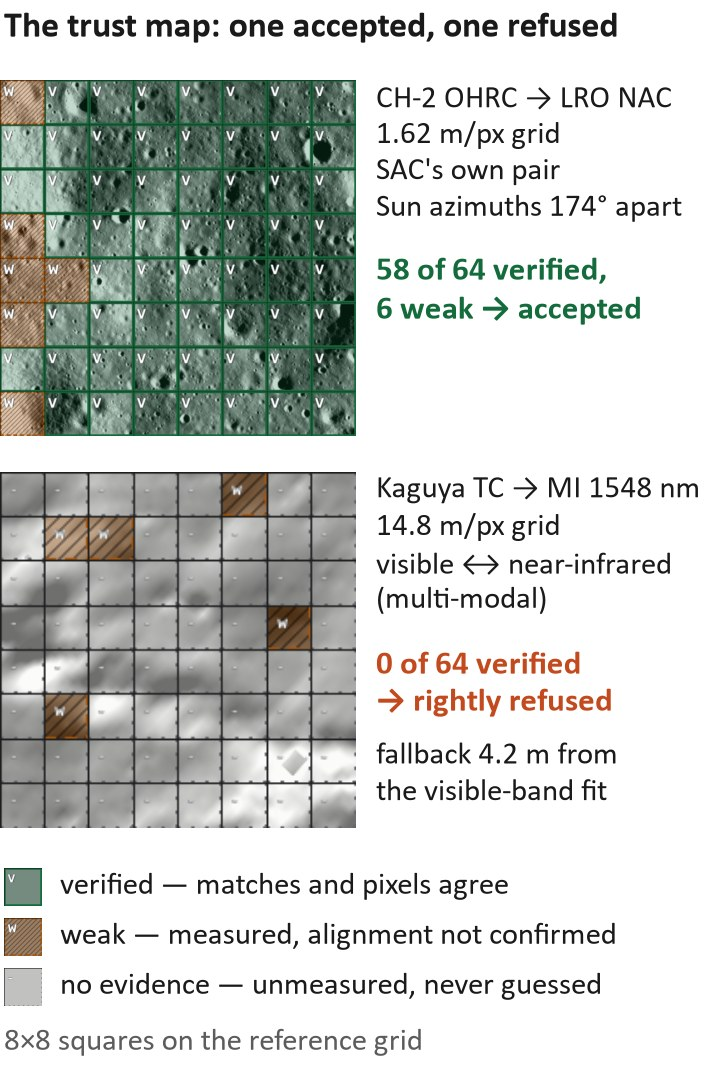
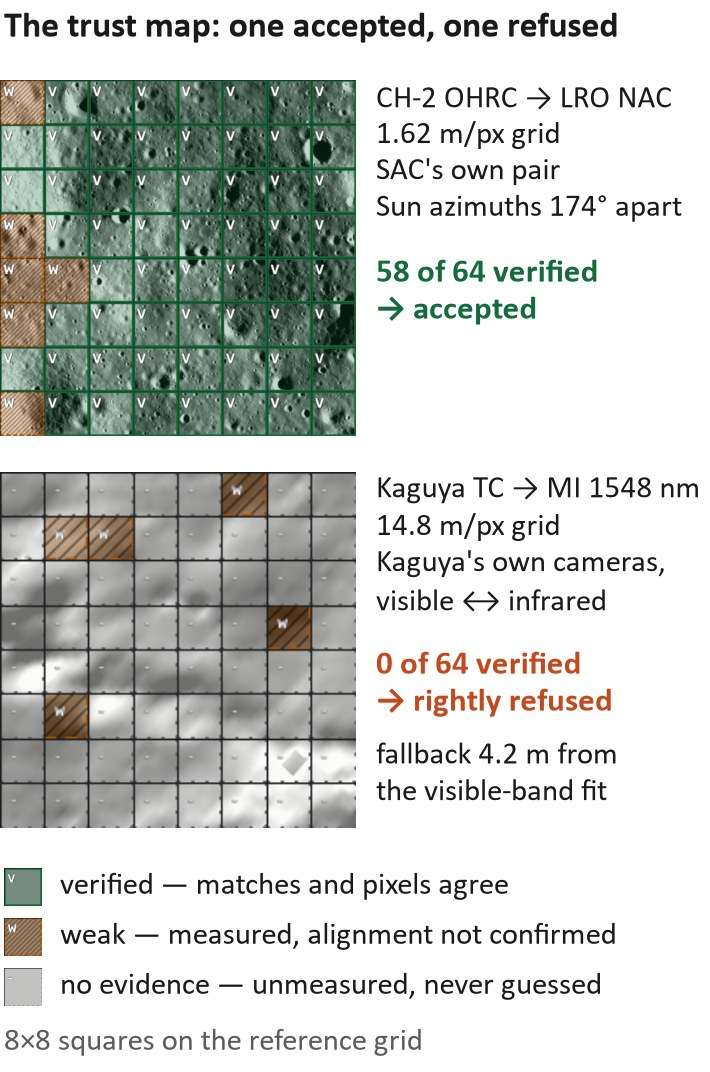
Deck v12 final after the claim-check and two rounds of cold reads; the same corrections in the README and console
Claim-check (every number traced to REPORT at the 04ed5f6 freeze) found wording a judge could challenge:
- "0 false alarms" re-checked windows chosen because the check agreed, so it was a control, not a
  false-alarm rate. Slide 2 now pairs 100% (area check) against 0% (residual check) on the same 1,056
  planted shifts, and quotes right answers refused on windows nobody chose: 2 of 53 in the real Sun
  sweep. fig6 calls 0 m the control.
- The check points' "archive prior" is the corrected placement the windows were cut at, not
  Chandrayaan-2's raw georeference: now "before matching 2.9-15.1 m".
- "Sun up to 41.7 deg higher"; the 29.6x scale rung "3/4 windows (1 strong)"; IIRS shifts in IIRS pixels;
  provenance says REPORT.md is generated at 04ed5f6.

Cold readers: nouns on every ratio; click precision 1.5 m beside the check-point RMSE; the sub-pixel row
split into TMC-2/IIRS in their own pixels (met) and OHRC bounded by its NAC reference (partly met),
replacing a row fig10 already shows; slide 5's region-by-region line in plain words; fig3's refused panel
names Kaguya's own cameras and the accepted one drops "6 weak"; fig10 drops the loop line; fig8 is the
console's result panel alone, legible, with the cached run's counts and seconds hidden (only REPORT's
figures on a slide); "aft" reworded because PowerPoint's print path garbles its ligature in the PDF text
layer, and export_pdf now fails on any garbled character.

Changed region(s): [[0.5268, 0.4925, 0.9606, 0.5849], [0.5268, 0.2463, 0.8986, 0.3078]]

diff --git a/web/console.template.html b/web/console.template.html
@@ -561,16 +561,16 @@ svg.net text{font-family:var(--f)}
     <div class="two">
       <figure>
         <svg class="chart" id="calchart" viewBox="0 0 560 320" role="img" aria-label="Share of planted registration errors flagged, by size of error in metres, for two Sun populations"></svg>
-        <figcaption class="src" data-t="plcap">From evaluation/trust_real_calibration.csv. Bars: 22 windows whose Suns are under 10° apart. Diamonds: SAC's 8 windows, Suns 132° to 174° apart. The two are never pooled. At 0 m nothing is wrong, so any flag is a false alarm.</figcaption>
+        <figcaption class="src" data-t="plcap">From evaluation/trust_real_calibration.csv. Bars: 22 windows whose Suns are under 10° apart. Diamonds: SAC's 8 windows, Suns 132° to 174° apart. The two are never pooled. At 0 m nothing is wrong: a control, on windows chosen because the check agreed with them.</figcaption>
       </figure>
       <div class="col">
         <div class="pair">
-          <p class="big num" data-t="plb1">0 of 44<small>false alarms on correct answers with the Suns within 10°, and 0 of 16 with them 132° to 174° apart</small></p>
+          <p class="big num" data-t="plb1">2 of 53<small>right answers refused in the real Sun sweep, on windows nobody chose (both with the Suns 60° to 120° apart). The planted test's control, the right answer re-checked, is flagged 0 of 44 and 0 of 16 times.</small></p>
           <p class="big num" data-t="plb2">100%<small>of planted 5 m shifts caught with the Suns within 10° (176 trials), and of 10 m shifts with them 132° to 174° apart. At 2 m or less almost nothing is caught: that is the floor.</small></p>
         </div>
         <hr class="rule" style="background:var(--white)">
         <p class="note" data-t="plres">The usual test of a registration is its own residual: how well the matches fit the transform. On the same 1,056 planted wrong answers of 5 m or more, a residual threshold loose enough to accept every true registration flags none of them; the squares flag all 1,056. The matches fit a wrong answer perfectly, so only the pixels can say it is wrong.</p>
-        <p class="note" data-t="plir">Visible against infrared, 16 TMC-2 to IIRS windows on two orbits: no false alarms; 86% of 5-pixel shifts caught and 99% of 10-pixel shifts (IIRS pixels, 74 to 84 m).</p>
+        <p class="note" data-t="plir">Visible against infrared, 16 TMC-2 to IIRS windows on two orbits: the right answer re-checked is never flagged; 86% of 5-pixel shifts caught and 99% of 10-pixel shifts (IIRS pixels, 74 to 84 m).</p>
         <hr class="rule" style="background:var(--white)">
         <p class="note" data-t="plrot">A rotation or scale change about the centre leaves the centre still and moves the corners, so a verdict for the whole frame watches the wrong place: at 3 m of corner movement it refuses 0 of 120 trials, at 5 m only 15. The squares carry it instead.</p>
         <div class="pair" id="rs"></div>
@@ -623,7 +623,7 @@ svg.net text{font-family:var(--f)}
       <li data-t="lg9"><span><em>OHRC onto Kaguya TC ortho map</em><small>cross-sensor</small></span><p>A 29.6× scale gap, 0.25 m against 7.4 m. One window on dense evidence (0.55 px = 4.0 m), two on 1 and 7 verified squares.</p><b class="num">3 of 4</b></li>
       <li data-t="lg10"><span><em>Kaguya TC onto Kaguya MI 749 nm</em><small>cross-sensor</small></span><p>Visible against visible, a 2× scale gap. Held-out median 0.23–0.47 px on MI's 14.8 m grid.</p><b class="num">3 of 3, 3.5–6.9 m</b></li>
       <li data-t="lg11"><span><em>OHRC to NAC A to NAC B, closed loops</em><small>the A to B leg is the same sensor</small></span><p>Three registrations round a loop must return to the start: consistency, not accuracy. Median closure over 6 loops, on the 1.245 m grid of NAC B.</p><b class="num">0.107 m</b></li>
-      <li data-t="lg13"><span><em>Check points clicked by hand</em><small>independent of the matcher</small></span><p>60 points on 6 OHRC to LRO NAC windows, placed with a tool that never sees our answer. Close to how precisely a feature can be clicked (1.47 m); Chandrayaan-2's own georeference misses the same points by 2.9 to 15.1 m.</p><b class="num">1.7–2.4 m RMSE</b></li>
+      <li data-t="lg13"><span><em>Check points clicked by hand</em><small>independent of the matcher</small></span><p>60 points on 6 OHRC to LRO NAC windows, placed with a tool that never sees our answer. Close to how precisely a feature can be clicked (1.47 m); the placement the windows were cut at, before matching, misses the same points by 2.9 to 15.1 m.</p><b class="num">1.7–2.4 m RMSE</b></li>
       <li data-t="lg14"><span><em>TMC-2 onto Kaguya TC, SAC's site</em><small>cross-sensor, two missions</small></span><p>Every 2.84 km window along 88 km of one pass, none chosen. The two archives disagree by a steady 287 m (median), which each registration removes.</p><b class="num">31 of 31</b></li>
       <li data-t="lg15"><span><em>IIRS onto NASA's WAC map, a whole strip</em><small>multi-modal, two missions</small></span><p>1555 nm against the visible base map, 49 windows of 19.2 km from 30° to 61°N, every square voting. 3 unconfirmed, 2 refused.</p><b class="num">44 of 49</b></li>
       <li data-t="lg16"><span><em>SIFT, ORB and AKAZE, the same rule</em><small>the classical baseline</small></span><p>Their matches go through the same fit and the same area check. SAC's pair, Suns 174° apart: 0 of 6 each. The Sun 154–177° away on SAC's frame: 0 of 56 each.</p><b class="num">ours 6 of 6, 48 of 56</b></li>
@@ -721,8 +721,8 @@ const T = {
   ldnote:'समस्या-कथन सूर्य का दिगंश और ऊँचाई दोनों माँगता है। SAC के अपने भूमध्यरेखीय OHRC फ्रेम पर सूर्य क्षितिज से 9.9° ऊपर है; यहाँ हर LRO छवि वही ज़मीन अलग सूर्य के नीचे देखती है। उनके दृष्टि-कोण और दिगंश में भी थोड़ा अंतर है, और REPORT.md हर छवि के लिए दोनों बताता है।',
   pah:'हर जोड़ी, और जाँच ने क्या कहा', pap:'हर परीक्षण की एक विंडो, स्वीकृत और अस्वीकृत, pipeline के सहेजे परिणामों से। कोई प्लेट चुनें। मैजेंटा धारियाँ वह दिखाती हैं जिसे सिस्टम ने अस्वीकार किया।',
   plh:'जाँच की जानबूझकर जाँच', plp:'विफलता पकड़ने वाला तभी उपयोगी है जब उसके झूठे अलार्म और उसका अंधा क्षेत्र मापे गए हों। इसलिए हमने 30 वास्तविक विंडो में ज्ञात आकार के ग़लत उत्तर डाले और उससे पूछा।',
-  plcap:'evaluation/trust_real_calibration.csv से। स्तंभ: 22 विंडो जिनके सूर्य 10° से कम अलग हैं। हीरे: SAC की 8 विंडो, सूर्य 132° से 174° अलग। दोनों को कभी मिलाया नहीं जाता। 0 m पर कुछ ग़लत नहीं, इसलिए कोई भी झंडा झूठा अलार्म है।',
-  plb1:'44 में 0<small>सही उत्तरों पर झूठे अलार्म जब सूर्य 10° के भीतर हों, और 16 में 0 जब वे 132° से 174° अलग हों</small>',
+  plcap:'evaluation/trust_real_calibration.csv से। स्तंभ: 22 विंडो जिनके सूर्य 10° से कम अलग हैं। हीरे: SAC की 8 विंडो, सूर्य 132° से 174° अलग। दोनों को कभी मिलाया नहीं जाता। 0 m पर कुछ ग़लत नहीं: यह नियंत्रण है, उन विंडो पर जिन्हें इसलिए चुना गया कि जाँच उनसे सहमत थी।',
+  plb1:'53 में 2<small>वास्तविक सूर्य-स्वीप में सही उत्तर अस्वीकार, उन विंडो पर जिन्हें किसी ने चुना नहीं (दोनों में सूर्य 60° से 120° अलग)। रोपित परीक्षण का नियंत्रण, सही उत्तर दोबारा जाँचा गया, 44 में 0 और 16 में 0 बार झंडांकित।</small>',
   plb2:'100%<small>डाले गए 5 m खिसकाव पकड़े गए जब सूर्य 10° के भीतर हों (176 परीक्षण), और 10 m वाले जब वे 132° से 174° अलग हों। 2 m या उससे कम पर लगभग कुछ नहीं पकड़ा जाता: वही निचली सीमा है।</small>',
   plrot:'केंद्र के चारों ओर घूर्णन या पैमाने का बदलाव केंद्र को स्थिर रखता है और कोनों को हिलाता है, इसलिए पूरे फ्रेम का एक निर्णय ग़लत जगह देखता है: कोनों के 3 m हिलने पर वह 120 में से 0 परीक्षण अस्वीकार करता है, 5 m पर केवल 15। यह काम वर्ग करते हैं।',
   ovh:'पूरा साझा क्षेत्र, चुनी हुई विंडो नहीं', ovp:'एक OHRC फ्रेम और NAC <span class="it">M1153871873LE</span> की साझा, प्रकाशित, बनावट-युक्त ज़मीन में हर गैर-अतिव्यापी 640-पिक्सेल विंडो, किसी भी मिलान से पहले चुनी गई।',
@@ -810,14 +810,14 @@ const T = {
   knownH:'ज्ञात उत्तर के विरुद्ध', twinH:'क्या अवरक्त फ्रेम केवल धुंधला है? एक ही स्रोत, एक ही मानचित्र-उत्पाद के दो बैंडों के सामने।',
   nav8:'संदर्भ खोजें',
   plres:'किसी पंजीकरण की सामान्य जाँच उसका अपना अवशेष (residual) है: मिलान रूपांतरण पर कितने ठीक बैठते हैं। उन्हीं 1,056 डाले गए ग़लत उत्तरों पर (5 m या अधिक), इतनी ढीली अवशेष-सीमा जो हर सही पंजीकरण स्वीकार करे, उनमें से एक को भी नहीं पकड़ती; वर्ग सभी 1,056 पकड़ते हैं। मिलान ग़लत उत्तर पर पूरी तरह बैठते हैं, इसलिए केवल पिक्सेल ही बता सकते हैं कि वह ग़लत है।',
-  plir:'दृश्य बनाम अवरक्त, दो कक्षाओं की 16 TMC-2 से IIRS विंडो: कोई झूठा अलार्म नहीं; 5-पिक्सेल खिसकाव का 86% और 10-पिक्सेल का 99% पकड़ा गया (IIRS पिक्सेल, 74 से 84 m)।',
+  plir:'दृश्य बनाम अवरक्त, दो कक्षाओं की 16 TMC-2 से IIRS विंडो: सही उत्तर दोबारा जाँचने पर कभी झंडा नहीं; 5-पिक्सेल खिसकाव का 86% और 10-पिक्सेल का 99% पकड़ा गया (IIRS पिक्सेल, 74 से 84 m)।',
   fdh:'सूर्य देखकर संदर्भ खोजें',
   fdp:'बहुत अलग सूर्यों के पार पंजीकरण कठिन है, इसलिए संदर्भ उसके सूर्य से चुना जाता है। ISRO के PRADAN कैटलॉग के हर OHRC अवलोकन के लिए, उसे ढकने वाली छवियाँ, सबसे अच्छा सूर्य पहले: दोनों सूर्य-दिशाओं के बीच का कोण, हर छवि के समय से गणना (Meeus; LROC के अपने प्रकाशित उप-सौर बिंदुओं से 0.04° के भीतर)।',
   fdq:'फ्रेम खोजें: तिथि, उत्पाद id, या अक्षांश, देशांतर',
   fdcap:'evaluation/reference_index.json (ops/reference_index.py) से। उम्मीदवार: PRADAN के फ़ुटप्रिंट कैटलॉग का हर OHRC, TMC-2 नादिर और IIRS उत्पाद, और इस परियोजना को ज्ञात LRO NAC छवियाँ, जो फ्रेम का कम से कम 20% ढकें। उसी पास पर साथ ली गई छवियों का सूर्य वही होता है।',
   fdSay:'{n} में से {m} OHRC अवलोकन मिले', fdAll:'{n} OHRC अवलोकन; {k} के पास 5° के भीतर दूसरी कक्षा की छवि है', fdNone:'कोई मेल नहीं',
   fdHead:'{d} का OHRC फ्रेम, {la}°, {lo}° पर; सूर्य का आपतन {i}°', fdImg:'छवि', fdInst:'उपकरण', fdCov:'ढकती है', fdSun:'सूर्यों में अंतर', fdAz:'दिगंश अंतर', fdDate:'तिथि', fdSame:'उसी पास पर', fdNo:'कोई छवि इस फ्रेम का 20% नहीं ढकती।',
-  lg13:'<span><em>हाथ से क्लिक किए जाँच-बिंदु</em><small>matcher से स्वतंत्र</small></span><p>6 OHRC से LRO NAC विंडो पर 60 बिंदु, ऐसे उपकरण से रखे गए जो हमारा उत्तर कभी नहीं देखता। किसी चिह्न को जितनी सटीकता से क्लिक किया जा सकता है (1.47 m), उसके क़रीब; चंद्रयान-2 का अपना भू-संदर्भ इन्हीं बिंदुओं से 2.9 से 15.1 m दूर।</p><b class="num">1.7–2.4 m RMSE</b>',
+  lg13:'<span><em>हाथ से क्लिक किए जाँच-बिंदु</em><small>matcher से स्वतंत्र</small></span><p>6 OHRC से LRO NAC विंडो पर 60 बिंदु, ऐसे उपकरण से रखे गए जो हमारा उत्तर कभी नहीं देखता। किसी चिह्न को जितनी सटीकता से क्लिक किया जा सकता है (1.47 m), उसके क़रीब; मिलान से पहले की स्थिति, जिस पर विंडो काटी गईं, इन्हीं बिंदुओं से 2.9 से 15.1 m दूर।</p><b class="num">1.7–2.4 m RMSE</b>',
   lg14:'<span><em>TMC-2 से Kaguya TC, SAC का स्थल</em><small>cross-sensor, दो मिशन</small></span><p>एक पास के 88 km में हर 2.84 km की विंडो, कोई चुनी नहीं गई। दोनों अभिलेखागार एक स्थिर 287 m (माध्यिका) से असहमत हैं, जिसे हर पंजीकरण हटाता है।</p><b class="num">31 में 31</b>',
   lg15:'<span><em>IIRS से NASA का WAC मानचित्र, पूरी पट्टी</em><small>multi-modal, दो मिशन</small></span><p>दृश्य आधार-मानचित्र के सामने 1555 nm, 30° से 61°N तक 19.2 km की 49 विंडो, हर वर्ग मतदान करता है। 3 अपुष्ट, 2 अस्वीकृत।</p><b class="num">49 में 44</b>',
   lg16:'<span><em>SIFT, ORB और AKAZE, वही नियम</em><small>पारंपरिक आधार-रेखा</small></span><p>उनके मिलान उसी फ़िट और उसी क्षेत्र-जाँच से गुज़रते हैं। SAC की जोड़ी, सूर्य 174° अलग: हर एक 6 में 0। SAC के फ्रेम पर सूर्य 154–177° दूर: हर एक 56 में 0।</p><b class="num">हमारा 6 में 6, 56 में 48</b>',

diff --git a/presentation/build_deck.py b/presentation/build_deck.py
@@ -482,15 +482,18 @@ HOW_ROWS = [
     # strongest measured line. SUN merges azimuth and elevation (both readers: elevation was missing).
     # REPORT "SAC's own benchmark pair (equatorial ...)" 6 agrees; "Classical matchers on the same
     # windows" first row, SIFT/ORB/AKAZE 0/6; "Sun azimuth and elevation, on SAC's own frame" 61/71.
-    ("SUN", GREEN, "6/6 at 174°", f" on SAC's pair [1], classical 0/6; Sun 41.7° higher: 61/71"),
+    # Final read (4 Oct): both readers asked "61 of 71 what?" - the noun is now there.
+    ("SUN", GREEN, "6/6 at 174°", f" on SAC's pair [1], classical 0/6; Sun up to 41.7° higher: 61/71 windows"),
     # "Independent check points": ours 1.69-2.39 m RMSE over 6 OHRC -> NAC windows x 10 points. AMBER:
-    # 1.5-2.6 px on the NAC grid is not sub-pixel (claim-check v12 #5; slide 4 says so).
-    ("ACCURACY", AMBER, "1.7–2.4 m", f" RMSE, OHRC{_TO}NAC, on 60 hand-clicked check points"),
+    # 1.5-2.6 px on the NAC grid is not sub-pixel (claim-check v12 #5; slide 4 says so). "click
+    # precision": the same section, "one click's precision is a median 1.47 m on the reference" - the
+    # SAC reader's first Q&A question was how much of the RMSE is the clicking (4 Oct).
+    ("ACCURACY", AMBER, "1.7–2.4 m", " RMSE, 60 hand-clicked check points; click precision 1.5 m"),
     # "TMC-2 -> SELENE TC ortho map at SAC's site, every window": accepted 31/31.
-    ("CROSS-MISSION", GREEN, "31/31", f" TMC-2{_TO}Kaguya TC at SAC's site, every window"),
+    ("CROSS-MISSION", GREEN, "31/31", f" TMC-2{_TO}Kaguya TC, every window"),
     # "TMC-2 -> IIRS" both orbits beyond 850 nm 62/62; "IIRS -> LRO WAC, the whole strip, region by
     # region": accepted 44/49.
-    ("MULTI-MODAL", GREEN, "62/62", f" TMC-2{_TO}IIRS infrared; whole IIRS strip onto NASA's map: 44/49"),
+    ("MULTI-MODAL", GREEN, "62/62", f" TMC-2{_TO}IIRS infrared; IIRS strip onto NASA's map: 44/49"),
 ]
 
 
@@ -531,7 +534,7 @@ def slide2(s):
     # How it addresses the problem: the three PS axes, one measured line each.
     cy = 4.50
     _tab(s, L, cy, H[2])
-    cw1 = 4.30
+    cw1 = 4.55          # 4 Oct: "61/71 windows" needs the width; the innovation card had room to spare
     _box(s, L, cy + 0.38, cw1, 6.85 - cy - 0.38, fill=FILL_GREY, line=LINE_GREY, name="card-how")
     rows = HOW_ROWS
     for k, (label, colour, bold, rest) in enumerate(rows):
@@ -557,8 +560,13 @@ def slide2(s):
           [P(R("A failure detector, calibrated on real data.", 13, True, INK))], name="inn-lead")
     # v12 final: the false-alarm count now spans both populations - "Trust layer ...": 0% at d = 0 in the
     # 30 visible windows and in the 16 "Visible against infrared" windows (46 = 30 + 16).
-    for k, (num, lab) in enumerate((("0", f"false alarms on correct answers, 46{NBSP}real{NBSP}windows"),
-                                    ("100%", "of 1,056 planted shifts ≥ 5 m caught, Suns within 10°"))):
+    # Final claim-check (4 Oct): the d = 0 trials re-check windows CHOSEN because the check agreed, so
+    # "0 false alarms" was close to true by construction. The card now pairs the two checks on the
+    # same 1,056 ("Planted errors of 5 m or more: the residual threshold flags 0 of 1056; the area
+    # check flags 1056 of 1056"), and the body quotes right answers refused on windows nobody chose
+    # for agreeing: "Real sun-angle sweep", correct but refused 1 + 1 of 51 accepted + 2 (all bins).
+    for k, (num, lab) in enumerate((("100%", "of 1,056 planted shifts ≥ 5 m caught, Suns within 10°"),
+                                    ("0%", "by the usual residual check, same shifts"))):
         ry = cy + 0.80 + k * 0.42
         _text(s, ix + 0.14, ry, 0.86, 0.40, [P(R(num, 24, True, ACCENT))], anchor="m", name="inn-num")
         _text(s, ix + 1.02, ry, RIGHT - ix - 1.16, 0.40, [P(R(lab, 12, False, MUTED))], anchor="m",
@@ -571,8 +579,8 @@ def slide2(s):
     # they are. "Visible against infrared": flagged at 5 px and 10 px (IIRS pixels). The opposite-Sun
     # head-to-head moved to the SUN row ("classical 0/6") and slide 4.
     _text(s, ix + 0.14, cy + 1.68, RIGHT - ix - 0.28, 0.62,
-          [P(R("The usual residual check flags none of them. ", 12, True, INK),
-             R("Visible against infrared: 86% caught at 5 px, 99% at 10 px.", 12, False, INK))],
+          [P(R("Right answers refused: 2 of 53, real Sun sweep. ", 12, True, INK),
+             R("Visible vs infrared: 86% of 5-pixel shifts caught, 99% of 10 (IIRS pixels).", 12, False, INK))],
           name="inn-body")
 
     # The trust map itself: SAC's OHRC -> NAC w06 (accepted) above Kaguya TC -> MI 1548 nm w01
@@ -671,8 +679,13 @@ def slide3(s):
          name="hardware")
 
     # The working prototype (pointer: "Flow Charts/Images/ working prototype"): the published
-    # console on a laptop, and the same page on a phone in Hindi (fig8, composed 2 Oct from two
-    # screenshots of web/dist/site). The caption is the address, so a judge can open it.
+    # console's result for SAC's pair (fig8). 4 Oct: both final cold readers could not read the whole
+    # laptop page with a phone inset at this size, so fig8 is now the result panel alone, cropped
+    # (552, 92, 1960, 972) from a 1600 x 1000 capture at 1.25x of web/dist/site after clicking the
+    # first saved result. The facts list and the per-square panel were hidden before the capture:
+    # they carry the cached run's counts and seconds (4,182 inliers, 8.4 s), which differ from the
+    # logged row (4,179, 8.6 s), and only REPORT's figures go on a slide (REPORT prints 58 / 0 and
+    # "all 6"). The "Try it" line names the phone and Hindi. The caption is the address.
     pic = _pic(s, "fig8_console.jpg", 0, ty, h=2.40, border=LINE_GREY)
     if pic is not None:
         pic.left = Inches(RIGHT) - pic.width
@@ -699,34 +712,33 @@ SCORECARD = [
     # "SAC's own benchmark pair (equatorial ...)" 6 agrees; "Sun azimuth and elevation ..." opposite table.
     # v12: and "Classical matchers ...": SIFT, ORB, AKAZE 0/6 each on the same windows.
     # v12 final: azimuth and elevation in one row (the freed row carries cross-mission).
-    ("Sun angle", f"SAC's pair [1], Suns 174° apart: 6/6 (SIFT,{NBSP}ORB,{NBSP}AKAZE 0/6); Sun 41.7° higher: 61/71",
+    ("Sun angle", f"SAC's pair [1], Suns 174° apart: 6/6 (SIFT/ORB/AKAZE 0/6); Sun up to 41.7° higher: 61/71",
      GREEN),
     # "Sun azimuth and elevation, on SAC's own frame": the near-azimuth table, its totals line.
     # "A real viewpoint test at Site N": agrees / windows, angle apart, held-out median, and its grid
     # (v11c: a cold reader took the 1.12 m for SAC's 1.12 m NAC grid of paper [1], 2 Oct).
-    ("Viewpoint", f"OHRC → OHRC, next orbit, 40° apart: 8/8, held-out median 1.12 m", GREEN),
+    ("Viewpoint", f"OHRC → OHRC, 40° apart: 8/8, held-out median 1.12 m", GREEN),
     # "Scale rung" 3 agrees of 4; "TMC-2 -> IIRS" scale column 16.2x, every window on both orbits.
-    # v11c names the 29.6× rung's source ("from which sensor?", cold read, 2 Oct).
+    # v11c names the 29.6× rung's source ("from which sensor?", cold read, 2 Oct). 4 Oct (claim-check):
+    # of the 3, only w01 is on dense evidence (0.55 px); w02 and w03 rest on 1 and 7 verified cells.
     ("Scale", f"16×{NBSP}TMC-2{_TO}IIRS: 62/62; 4.2×{NBSP}OHRC{_TO}TMC-2: 10/10; "
-              f"29.6×{NBSP}OHRC{_TO}Kaguya{NBSP}TC: 3/4", GREEN),
+              f"29.6×{NBSP}OHRC{_TO}Kaguya{NBSP}TC: 3/4 windows (1 strong)", GREEN),
     # "TMC-2 -> IIRS", both orbits: bands beyond 850 nm, windows accepted. (v11c: "16 places" cut to pay
     # for the words added on this slide.)
     # v12: "IIRS -> LRO WAC global mosaic": accepted 12/16 (cross-mission; its own section, not in the
     # 406 windows).
     # v12 final: "IIRS -> LRO WAC, the whole strip, region by region": 44/49, every 8x8 square voting -
     # replaces the 16 small windows' 12/16 on a whole-frame check (claim-check #7 and the cold readers).
-    ("Multi-modal", f"TMC-2{_TO}IIRS infrared: 62/62; whole IIRS strip onto NASA's WAC map: 44/49",
+    ("Multi-modal", f"TMC-2{_TO}IIRS infrared: 62/62; IIRS strip onto NASA's WAC map: 44/49",
      GREEN),
     # "TMC-2 -> SELENE TC ortho map at SAC's site, every window": 31/31 over 31 x 2.84 km.
-    ("Cross-mission", f"TMC-2{_TO}Kaguya TC at SAC's site, every window over 88 km: 31/31", GREEN),
+    ("Cross-mission", f"TMC-2{_TO}Kaguya TC, every window over 88 km: 31/31", GREEN),
     # "One site, every camera ... (Site N)": OHRC -> TMC-2 from the legs table; then "TMC-2 -> IIRS" on
     # that TMC-2's own orbit (20200607), its four infrared bands' "windows accepted" summed: 8 + 8 + 8 +
     # 6 = 30/30. v11 ended this row "chain via NAC meets direct within 2.0 m": false - the loop's median
     # is 1.99 m, its max 4.04 m, and 2 of its 4 windows are above 2.0 m (audit, 2 Oct). v11c drops the
     # two NAC legs (5/5, 4/4): fig10 beside the row draws both, and the row names the three cameras.
     # Arrows are no-break, so no instrument is cut from its arrow.
-    ("OHRC, TMC, IIRS", f"One site, Suns matched: OHRC{_TO}TMC-2 10/10, IIRS{_TO}TMC-2 30/30",
-     GREEN),
     # "Sub-pixel accuracy ... / In the Chandrayaan-2 image's own pixels" (the PS asks for the accuracy
     # "of source image"): NAC <-> TMC-2 at SAC's site, TMC-2 <-> IIRS 1555 nm on orbit 20200607, and
     # OHRC -> NAC at 74 S in OHRC pixels - OHRC is finer than any reference, so it is not sub-pixel in
@@ -735,16 +747,32 @@ SCORECARD = [
     # paper's SuperGlue number is in-sample, ours are held-out, and the two are not the same measure.
     # v11c names each number's partner: both cold readers found TMC-2's accuracy given three ways on
     # this slide (here, and fig10's two Site N legs on another TMC-2 frame), 2 Oct.
-    ("Sub-pixel, own pixels", f"Held-out medians: TMC-2 vs NAC 0.36–0.48 px{_EQ}1.6–2.2 m; IIRS 1555 nm vs TMC-2 "
-                  f"0.16–0.32 px{_EQ}13.9–27.3 m; OHRC, finer than NAC, 2.0–3.7 px{_EQ}0.51–0.94 m", AMBER),
+    # Final read (4 Oct): both readers stopped at the bare "OHRC ... 2.0-3.7 px" beside an amber dot and
+    # read it as the brief failed; the row now says why (REPORT: "the finer: bounded by the reference
+    # grid"). Same numbers.
+    # Second final read (4 Oct): both readers stopped at the one row that mixed three sensors and two
+    # units, and one asked why 4.5 m TMC-2 pixels sat beside fig10's 5.173 m grid (two TMC-2 frames). So
+    # the row is split: what is met (TMC-2 and IIRS, in their own pixels, GREEN) and what cannot be
+    # (OHRC's 0.25 m pixel against a ~0.93 m NAC: "the finer: bounded by the reference grid", AMBER,
+    # with its reference-grid medians from the 74 S rows of the same section, 0.41-1.01 px = 0.51-0.94 m).
+    # The "OHRC, TMC, IIRS" row it replaces repeated fig10, which stands beside it (the reader also
+    # could not reconcile its 30/30 with 62/62 and 58/58).
+    ("Sub-pixel: TMC-2, IIRS", "Held-out medians in their own pixels: TMC-2 0.36–0.48 px (1.6–2.2 m); "
+                               "IIRS 1555 nm 0.16–0.32 px (13.9–27.3 m)", GREEN),
+    ("Sub-pixel: OHRC", "OHRC's 0.25 m pixel is finer than its NAC reference can check: 0.51–0.94 m, "
+                        "0.41–1.01 NAC px", AMBER),
     # "Runtime and match distribution": grid coverage, and the delivered uniform set.
-    ("Uniform spread", "Inliers in ≥95% of 8×8 cells, 17/20 windows; reports: RMSE, inlier count, inlier "
-                       "ratio", GREEN),
+    ("Uniform spread", "Inliers in ≥95% of 8×8 cells, 17/20 windows; reports RMSE, inlier "
+                       "count, ratio", GREEN),
     # v12: "Independent check points": 6 windows x 10 points, ours 1.69-2.39 m RMSE, the archive prior
     # 2.9-15.1 m. Replaces v11's "Deliverables" row (slide 3's outcome box names the GeoTIFF, control
     # points and trust map); the cold readers' "RMSE appears nowhere" is answered by a measured RMSE.
-    ("Check points", f"60 hand-clicked, OHRC{_TO}NAC: 1.7–2.4 m RMSE (1.5–2.6 NAC px); Chandrayaan-2's "
-                     "georeference 2.9–15.1 m", AMBER),
+    # 4 Oct: "one click 1.5 m" - the section's click precision (median 1.47 m on the reference). The
+    # "archive prior RMSE" column is NOT Chandrayaan-2's raw georeference: the cut already applies the
+    # NAC's 4 m correction (REPORT, Site N: "first moved (-29, -61) m into LRO's geometry"), so the
+    # row now calls it the placement before matching (claim-check, 4 Oct).
+    ("Check points", f"60 hand-clicked, OHRC{_TO}NAC: 1.7–2.4 m RMSE (1.5–2.6 NAC px), click precision 1.5 m; "
+                     "before matching 2.9–15.1 m", AMBER),
 ]
 RISKS = [
     # "Real sun-angle sweep" bins 60-90 and 90-120: 0 accepted of 7 + 5, none wrongly accepted; 1 failed
@@ -755,10 +783,12 @@ RISKS = [
      # uses rank 4, 7, 9.
      # v12 final: "Choosing the reference by its Sun", the whole-archive line: 208 of 300 OHRC
      # observations have a partner from another orbit within 5 deg ("Site N" was undefined, 3 Oct).
-     ("Choose the reference by its Sun", "Built: 208 of 300 OHRC frames have a partner within 5°")),
+     ("Choose the reference by its Sun", "Built: 208 of 300 OHRC frames: a partner within 5°")),
     # "Relief: TMC-2 fore -> aft orthorectified on the pass's DTM": 1/4 without, 2/4 with.
-    (("Relief parallax", "TMC-2 fore → aft, 50° apart: 1/4"),
-     ("DTM orthorectification", "Built: 2/4 on ISRO's DTM")),
+    # 4 Oct: "aft" printed through PowerPoint comes out as "a" + U+014C in the PDF's text layer (the
+    # "ft" ligature), which a screener's text extraction reads as garbage; the row avoids the word.
+    (("Relief parallax", "TMC-2 views 50° apart: 1/4 windows"),
+     ("DTM orthorectification", "Built: 2/4 windows on ISRO's DTM")),
 ]
 
 
@@ -877,9 +907,10 @@ def slide5(s):
     # REPORT, "The planted matches agree with the wrong transform perfectly in every trial".
     _text(s, L + 1.42, py + 0.10, 5.52, 1.32,
           [P(R("Why region by region", 13, True, ACCENT)),
+           # 4 Oct: both readers could not tell whether "left ... unverified" was good or bad.
            P(R("Rotation and scale errors move the corners, not the centre, and the matches fit the "
-               "wrong answer perfectly. With corners 3 m out, a whole-frame check refused none of 120 "
-               "trials; the 8×8 map left 62–63% of the squares moved over 2 px unverified.",
+               "wrong answer perfectly. With corners 3 m out, a whole-frame check caught none of 120 "
+               "trials; the 8×8 map flagged 62–63% of the squares that moved over 2 px.",
                12, False, INK), sb=2)],
           name="per-region-text")
 
@@ -948,8 +979,8 @@ REFS = [
 # (s2, s4) only as the rows they add up from - per band, per window - so "every figure comes from
 # REPORT.md" was not literally true (audit, 2 Oct). "Result": a grid size or a place is not one.
 # v12: the 3 Oct freeze re-ran every row at e38a69a; its report step wrote REPORT.md with that code.
-PROVENANCE = ("Every result is in REPORT.md, or a count or sum of its rows, measured at the freeze "
-              "commit 04ed5f6.")
+PROVENANCE = ("Every result is in REPORT.md, or a count or sum of its rows; REPORT.md is generated at "
+              "the freeze commit 04ed5f6.")
 
 
 def slide6(s):

diff --git a/presentation/make_figures.py b/presentation/make_figures.py
@@ -462,7 +462,9 @@ def _panel_lines(pair: str) -> list[str]:
     if g.get("benchmark"):
         lines += ["SAC's own pair", f"Sun azimuths {g['d_sun_azimuth_deg']:.0f}° apart"]
     elif "infrared" in (r.get("band") or ""):
-        lines += ["visible ↔ near-infrared", "(multi-modal)"]
+        # 4 Oct: a third cold reader took "(multi-modal) ... refused" beside slide 2's MULTI-MODAL 62/62
+        # to mean multi-modal fails; the panel now names the cameras, Kaguya's own, not Chandrayaan-2's.
+        lines += ["Kaguya's own cameras,", "visible ↔ infrared"]
     else:
         lines += [g.get("terminology", "")]
     return lines
@@ -554,7 +556,8 @@ def fig_trust_map():
                f"fallback {_fallback_vs_visible_m(pair)} m from\nthe visible-band fit",
                fontsize=11, color=INK)
         else:
-            at(tx, vy, f"{counts['verified']} of {n_cells} verified,\n{counts['weak']} weak → accepted",
+            # 4 Oct: "6 weak -> accepted" read as "unconfirmed squares accepted" (generalist reader).
+            at(tx, vy, f"{counts['verified']} of {n_cells} verified\n→ accepted",
                fontsize=12, fontweight="bold", color="#146b3c")
 
     # Legend: the same three marks the app draws, on a flat grey swatch, produced by the same
@@ -875,8 +878,10 @@ def fig_trust_real():
             + ", OHRC→NAC and NAC→NAC")
     # "every planted match agrees with the wrong answer" was a phrase a cold reader could not
     # decode (2 Oct); slide 5 now says it the same way as this line.
-    fig.text(0.008, 0.008, f"{wins}\n0 m = false-alarm rate · the planted matches fit the "
-             f"wrong answer", fontsize=11, color=MUTED, linespacing=1.25, va="bottom")
+    # 4 Oct (claim-check): the 0 m trials re-check windows chosen because the check agreed, so they are
+    # a control, not a false-alarm rate on unseen windows; the deck quotes the real Sun sweep for that.
+    fig.text(0.008, 0.008, f"{wins}\n0 m = control (right answer) · the planted matches fit the wrong "
+             f"answer", fontsize=11, color=MUTED, linespacing=1.25, va="bottom")
     fig.tight_layout(rect=(0, 0.115, 1, 1))
     out = OUT / "fig6_trust_real_calibration.png"
     _audit(fig, out.name)
@@ -1164,10 +1169,9 @@ def fig_site_n():
     arrow(left + bw + gap, bot - bh / 2, right - gap, bot - bh / 2)
     text(W / 2, bot - bh - 0.16, f"{ti_acc}/{len(ti)} accepted · {len(bands)} infrared bands (multi-modal)")
     text(W / 2, bot - bh - 0.34, f"IIRS windows along this TMC-2 pass, {min(lats):.1f}–{max(lats):.1f}°N")
-    # The loop: median AND max, and what it is.
-    text(0.04, 0.31, f"Loop via NAC vs direct, {len(loops)} windows: median {np.median(rms):.2f} m, "
-                     f"max {max(rms):.2f} m (consistency, not accuracy)", colour=DECK_ACCENT, ha="left")
-    text(0.04, 0.12, "Ranges: per-window held-out medians (matches the fit never saw), inlier ratio > 0.5",
+    # 4 Oct: the loop line ("Loop via NAC vs direct ... consistency, not accuracy") dropped - both final
+    # cold readers stopped reading there; the loop's median and max stay in REPORT and the README.
+    text(0.04, 0.22, "Ranges: per-window held-out medians (matches the fit never saw), inlier ratio > 0.5",
          colour=MUTED, ha="left")
     text(0.04, H - 0.16, f"One site, {site}, and its TMC-2 pass: Suns matched, every leg checked",
          fs_title, "bold", ha="left")

diff --git a/presentation/export_pdf.py b/presentation/export_pdf.py
@@ -190,6 +190,14 @@ def crop_and_check(printed: pathlib.Path, final: pathlib.Path) -> int:
             fam = _family(buf)
             if fam and fam != "Calibri":
                 problems.append(f"page {i + 1}: printed in {fam}, not Calibri - export again")
+        # A ligature printed through "Microsoft Print to PDF" can come back as the wrong character in
+        # the text layer - "aft" extracted as "a" + U+014C (final cold read, 4 Oct) - and the text layer
+        # is what a screener's extraction reads. Latin Extended and private-use characters are never in
+        # our text, so any of them is a garbled glyph: reword the slide.
+        odd = sorted({c for c in page.get_text() if 0x100 <= ord(c) <= 0x24F or 0xE000 <= ord(c) <= 0xF8FF})
+        if odd:
+            problems.append(f"page {i + 1}: garbled text layer ({', '.join(f'U+{ord(c):04X}' for c in odd)})"
+                            " - reword the word PowerPoint ligates")
     # Printing to PDF drops PowerPoint's hyperlinks, so a judge reading the PDF could not click the
     # addresses on slides 3 and 6. Put the links back over the printed text (v11, 2 Oct).
     n_links = 0

diff --git a/README.md b/README.md
@@ -59,7 +59,7 @@ transform; held-out errors are on the 20 % of matches the fit never saw.
 | **Scale** | OHRC → Kaguya TC, 29.6×: 3 of 4 accepted, one of them on dense evidence (0.55 px = 4.0 m on TC's 7.4 m grid) and two on 1 and 7 verified cells. TMC-2 → IIRS, about 16×: every window on two orbits | *Scale rung*; *TMC-2 → IIRS* |
 | **Multi-modal** (visible → infrared) | TMC-2 → IIRS at 999–3223 nm: **62 of 62** registrations, 16 places on two orbits in four infrared bands; at 1555 nm, held-out median 0.16–0.32 IIRS px per window = 13.9–27.3 m on IIRS's 73.85 and 83.67 m grids. A whole IIRS strip (1555 nm, 30.3–60.7°N) onto NASA's LRO WAC global map, every 19.2 km window, every one of the 8 × 8 squares voting: **44 of 49** accepted, 3 unconfirmed, 2 refused | *TMC-2 → IIRS*; *IIRS → LRO WAC, the whole strip* |
 | **Cross-mission** | TMC-2 onto the SELENE (Kaguya) TC ortho map at SAC's own site, every 2.84 km window along 88 km of one pass, none chosen: **31 of 31**; the two archives disagree by a steady 287 m (median), which each registration removes | *TMC-2 → SELENE TC ortho map at SAC's site* |
-| **Accuracy against independent points** | 60 check points clicked by hand on 6 OHRC → LRO NAC windows, with a tool that never reads a registration: our transform lands **1.7–2.4 m RMSE** from them (1.46–2.56 px on the NAC grids), at the clicking precision (1.47 m median, from repeat clicks); Chandrayaan-2's own archive georeference misses the same points by 2.9–15.1 m. Not sub-pixel: the check cannot resolve finer than the clicks | *Independent check points* |
+| **Accuracy against independent points** | 60 check points clicked by hand on 6 OHRC → LRO NAC windows, with a tool that never reads a registration: our transform lands **1.7–2.4 m RMSE** from them (1.46–2.56 px on the NAC grids), at the clicking precision (1.47 m median, from repeat clicks); the placement the windows were cut at - the archives' geometry after the corrections the cut applies, so not Chandrayaan-2's raw georeference - misses the same points by 2.9–15.1 m. Not sub-pixel: the check cannot resolve finer than the clicks | *Independent check points* |
 | **OHRC, TMC and IIRS** | One site at 60.7°N with the Suns matched: OHRC → TMC-2 **10 of 10**, OHRC → LRO NAC 5 of 5, NAC → TMC-2 4 of 4. The chain OHRC → NAC → TMC-2 meets the direct OHRC → TMC-2 with a loop RMS of 1.99 m (median of 4 windows, max 4.04 m; consistency, not accuracy). IIRS onto that same TMC-2 pass, along the strip at 51.7–60.7°N rather than on the site's windows: 30 of 30 | *One site, every camera (Site N)* |
 | **Viewpoint** | OHRC → OHRC of the next orbit, viewing directions 40° apart, Sun within 2.2°: **8 of 8**, held-out median 0.91 px = 1.12 m on the 1.232 m grid. TMC-2 fore → aft, 50° apart: 1 of 4 (relief parallax, a measured limit); orthorectified first on ISRO's own TMC-2 DTM of the pass, 2 of 4 | *A real viewpoint test at Site N*; *Real viewpoint: TMC-2 fore → aft*; *Relief* |
 | **Sub-pixel, "of source image"** | Where the Chandrayaan-2 image is the coarser grid, in its own pixels: TMC-2 0.36–0.48 px = 1.6–2.2 m against a NAC (4.555 m grid); IIRS at 1555 nm 0.16–0.32 px = 13.9–27.3 m against TMC-2. OHRC → TMC-2 at the site above is 0.61–1.57 TMC-2 px = 3.2–8.1 m over 9 of its 10 windows (the 10th, at an inlier ratio of 0.48, is not quoted), so not every window is sub-pixel. Where OHRC is finer than its reference, the reference grid bounds it: 0.41–1.01 NAC px = 0.51–0.94 m at 74 °S, which is 2.0–3.7 OHRC px | *Sub-pixel accuracy, with the pixel grid named* |
@@ -99,7 +99,9 @@ measured. We planted wrong answers of known size into 30 real windows, in two Su
 that are never pooled (*Trust layer on real imagery*). For shifts:
 
 - **no false alarm** in 44 correct trials with the Suns within 10°, or in 16 with them
-  132–174° apart;
+  132–174° apart (a control: these windows were chosen because the check agreed with them, so
+  this shows the verdict is stable, not a false-alarm rate on unseen windows; on windows nobody
+  chose, the real Sun sweep refused 2 of the 53 it judged right, both at 60–120°);
 - **every 5 m shift flagged** with the Suns within 10°, and every 10 m shift with them 132–174°
   apart;
 - at 2 m or less almost nothing is caught. That is the floor, and we report it.
@@ -256,6 +258,9 @@ pairs.
 
 What these do not cover:
 
+- The false-alarm rows re-check windows chosen because the check agreed with them (step 1 of
+  `ops/trust_real_calibration.py`), so they bound instability, not false alarms on unseen windows.
+  For those, the real Sun sweep: 2 of the 53 windows it judged right were refused.
 - The planted errors are translations. Rotations and scale changes are caught cell by cell, not
   by the frame verdict (above).
 - The real sweep is judged by image evidence (|NCC| ≥ 0.30), not ground truth. Only one of the 54
